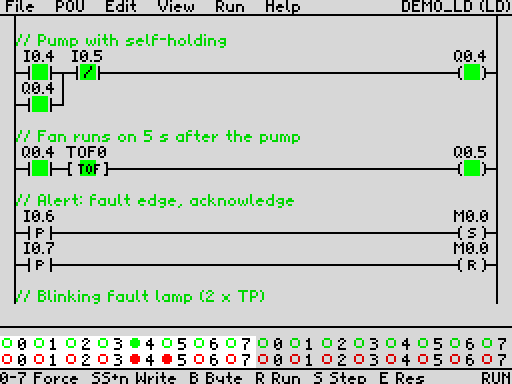
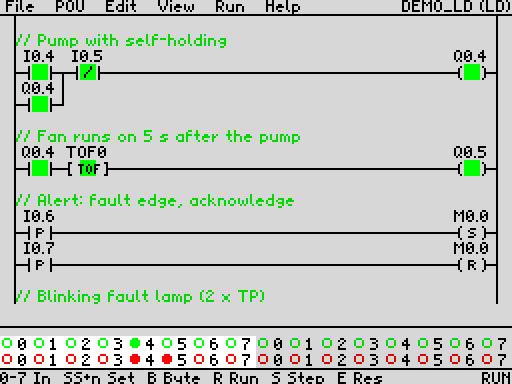
UR-4 interface: real inputs and outputs in the simulation
View > UR-4 I/O switches a TESLA UR-4 (8255) on when it answers (PC
read-back). The simulation ORs PA / PB into %IX0 / %IX1 every frame and
writes %QX0 to PC while it runs (0 in STOP, after a step and outside the
simulation). The status bar shows UR-4 RUN / STOP; the key hints are
shorter to make room. zxrun emulates the 8255 (--ur4, ur:AA,BB).

Claude-Session: https://claude.ai/code/session_01VKWfWeHqdVXUCm7FCj2M63

Changed region(s): [[0.0625, 0.9688, 0.8438, 1.0]]

diff --git a/tools/zxrun.py b/tools/zxrun.py
@@ -13,6 +13,8 @@ Script: whitespace separated commands:
   at:X,Y    move it so that the program's pointer is at screen pixel X, Y
             (tracked from 128,96, where the program puts it when switched on)
   cl:L/R    click the left / right button
+  (with --ur4, a UR-4 8255 interface; its PC writes are printed at the end:)
+  ur:AA,BB  set the inputs PA, PB (hex)
 Requires the 'z80' python package and /usr/share/fuse/48.rom.
 """
 import sys, argparse, struct, zlib
@@ -42,6 +44,11 @@ class Spectrum:
         self.edges = []                 # T-state times of MIC edges (saving)
         self.ay_log = []                # (frame, register, value)
         self.mouse = False              # Kempston mouse attached (--mouse)
+        self.ur4 = False                # UR-4 (8255) attached (--ur4)
+        self.ur_a = self.ur_b = 0       #   inputs PA, PB (script ur:AA,BB)
+        self.ur_c = 0                   #   output latch PC
+        self.ur_cwr = 0x9B
+        self.ur_log = []                #   (frame, value) of every PC change
         self.mx = self.my = 0           # its X / Y counters
         self.mb = 0xFF                  # its buttons (active low)
         self.px, self.py = 128, 96      # tracked pointer position
@@ -115,6 +122,8 @@ class Spectrum:
         return bytes(self.banks[bank][off:off + n])
 
     def inp(self, port):
+        if self.ur4 and port & 0xFF in (0x1F, 0x3F, 0x5F):
+            return {0x1F: self.ur_a, 0x3F: self.ur_b, 0x5F: self.ur_c}[port & 0xFF]
         if self.mouse and port & 0xFF == 0xDF:
             hi = port >> 8
             if hi == 0xFA:
@@ -138,6 +147,12 @@ class Spectrum:
         return v | 0xA0
 
     def out(self, port, val):
+        if self.ur4 and port & 0xFF == 0x5F:
+            if val != self.ur_c:
+                self.ur_log.append((self.frames, val))
+            self.ur_c = val
+        if self.ur4 and port & 0xFF == 0x7F:
+            self.ur_cwr = val
         if not port & 1:
             self.border = val & 7
             mic = val & 8
@@ -337,10 +352,12 @@ def main():
     ap.add_argument("--tap", default=None, help="save the tape output as a .tap file")
     ap.add_argument("--noborder", action="store_true", help="screenshots without the border")
     ap.add_argument("--mouse", action="store_true", help="attach a Kempston mouse")
+    ap.add_argument("--ur4", action="store_true", help="attach a UR-4 (8255) interface; prints its PC writes")
     a = ap.parse_args()
     z = Spectrum(a.sna)
     z.noborder = a.noborder
     z.mouse = a.mouse
+    z.ur4 = a.ur4
     z.run(a.frames)
     for cmd in a.script.split():
         if cmd.startswith("w"):
@@ -361,10 +378,14 @@ def main():
             z.mouse_at(x, y)
         elif cmd.startswith("cl:"):
             z.click(cmd[3:])
+        elif cmd.startswith("ur:"):
+            z.ur_a, z.ur_b = (int(v, 16) for v in cmd[3:].split(","))
         elif cmd == "mark":
             z.ay_log.append((z.frames, "mark", 0))
     if a.out:
         z.png(a.out)
+    if a.ur4:
+        print("UR-4 CWR %02X, PC: %s" % (z.ur_cwr, " ".join("%d:%02X" % e for e in z.ur_log)))
     if a.peek:
         ad, ln = a.peek.split(":")
         ad, ln = int(ad, 16), int(ln)

diff --git a/docs/MANUAL.md b/docs/MANUAL.md
@@ -155,6 +155,7 @@ Each menu title opens a drop-down list. The first letter of a title or item is i
 | Cross references | uses of the operand at the cursor (also SS+X) |
 | Sound | key click and error tone on / off |
 | Mouse | Kempston mouse on / off (only when one is found) |
+| UR-4 I/O | real inputs and outputs through a UR-4 interface on / off (only when one is found, see [10](#10-simulation)) |
 
 ### Run
 
@@ -414,14 +415,34 @@ the faulty line or element; the message is shown in the status bar.
 
 | Key | Function |
 |---|---|
-| `0`-`7` | toggle input bit 0-7 of the selected byte ("Force") |
-| SS + `0`-`7` | push button: the input is on while the key is held ("Write") |
+| `0`-`7` | toggle input bit 0-7 of the selected byte ("In") |
+| SS + `0`-`7` | push button: the input is on while the key is held ("Set") |
 | `B` | select byte 0 / 1 |
 | `R` | run / stop |
 | `S` | one scan (step) |
 | `E` | reset all data |
 | `W` | program / watch page |
 | UP / DOWN | scroll the listing |
+
+### Real inputs and outputs: the UR-4 interface
+
+The simulation can read and drive real hardware through a **UR-4** interface (TESLA Kolín, an 8255
+chip with three 8-bit ports). **View > UR-4 I/O** switches it on; it is only switched on when the
+interface answers, otherwise "No UR-4 interface" is shown. It is off after the start.
+
+| UR-4 port | Address | PLC | Direction |
+|---|---|---|---|
+| PA | 31 | `%IX0.0`-`%IX0.7` | input |
+| PB | 63 | `%IX1.0`-`%IX1.7` | input |
+| PC | 95 | `%QX0.0`-`%QX0.7` | output |
+| control word | 127 | 146 (PA, PB in, PC out) | |
+
+* The inputs are read every frame and ORed with the inputs set by keys or mouse. A high pin (H) is TRUE.
+* The outputs are written only while the simulation runs (RUN). In STOP, after a step, when the
+  simulation screen is left and when the UR-4 is switched off they are all 0. `%QX1` stays simulated.
+* The status bar shows `UR-4 RUN` / `UR-4 STOP` while the interface is on.
+* When switched off, all ports are set back to inputs, as after a reset.
+* A Kempston joystick interface also answers on port 31; do not connect both.
 
 ## 11. Watch and force table
 

diff --git a/CLAUDE.md b/CLAUDE.md
@@ -28,7 +28,7 @@ on tape. See README.md for the user-facing description of every editor and key.
   per image, `--noborder`). Update the manual and the scripts when the UI changes.
 - `python3 tools/fixjr.py main.asm`: builds and converts every out-of-range `jr` to `jp` in the source,
   then prints the remaining errors. Run it after edits that make code longer.
-- `python3 tools/xref.py --check "pou:R,app:E,il_edit:E,sym_edit:E,ld_edit:E,sim:E,demo:E,il_comp:R,vm:R,ld_comp:R,fbd_comp:R,tape:R,tests:E,fbd_edit:F,tools:D,clip:D,wexpr:D,mouse:D,undo:S"`:
+- `python3 tools/xref.py --check "pou:R,app:E,il_edit:E,sym_edit:E,ld_edit:E,sim:E,demo:E,il_comp:R,vm:R,ld_comp:R,fbd_comp:R,tape:R,tests:E,fbd_edit:F,tools:D,clip:D,wexpr:D,mouse:D,undo:S,ur4:D"`:
   reports labels referenced across paged banks without `BCALL`. Unlisted modules are core. The
   `run_tests` / `demo_build` hits in main.asm are expected. Extend the map when a module moves.
 - Headless emulator: `.scratch/venv/bin/python tools/zxrun.py zxplc.sna -f 30 -s "<script>"`
@@ -74,6 +74,9 @@ on tape. See README.md for the user-facing description of every editor and key.
   while waiting and returns `K_MOUSE` (position `ms_cx` / `ms_cy`, button `ms_btn`); a click on a menu
   title becomes `K_EDIT` with `ms_menu`. The pointer is hidden before a key is returned. Screens handle
   `K_MOUSE` with `ms_item` / `ms_grid` / `ms_crow` / `ms_pou`. zxrun: `--mouse`, `at:x,y`, `cl:L`.
+- UR-4 interface (8255; PA 0x1F, PB 0x3F, PC 0x5F, CWR 0x7F): `src/ur4.asm` (DEMO bank, View > UR-4 I/O,
+  `ur_toggle` with a PC read-back detection), state `ur_on` (vm.asm). `sim_inputs` ORs PA / PB into RT_I,
+  `ur_out` (sim.asm) writes %QX0 to PC in RUN, 0 otherwise. zxrun: `--ur4`, `ur:AA,BB`.
 - `bank_copy` (core) copies with another bank paged in. Core routines that page a bank (`win_open` /
   `win_close` → DATA) restore the caller's bank.
 

diff --git a/README.md b/README.md
@@ -44,6 +44,8 @@ not downloaded to a real PLC; they run in the built-in simulation with live moni
 * **The whole 128K in use:**
   * the editors, compilers, VM and tools are spread over the paged memory banks, with calls between them;
   * a small core, the runtime data and the 12 KB project stay in fixed memory.
+* **Real inputs and outputs:** a UR-4 interface (8255) connects 16 inputs and 8 outputs to the
+  running simulation.
 * **AY sound:** a soft key click and warning tones, played by the interrupt so that the program never waits.
 * **Tape:**
   * projects are saved and loaded as standard ROM-format files, with a safe fallback when loading fails;
@@ -70,5 +72,5 @@ make docs       # screenshots of the manual
 * **Tests and screenshots** need the Python package `z80`:
   `python3 -m venv .scratch/venv && .scratch/venv/bin/pip install z80`.
 
-`tools/zxrun.py` is a small headless 48K / 128K emulator with tape and Kempston mouse for tests and
+`tools/zxrun.py` is a small headless 48K / 128K emulator with tape, Kempston mouse and UR-4 for tests and
 screenshots. `CLAUDE.md` describes the source structure and memory layout.
